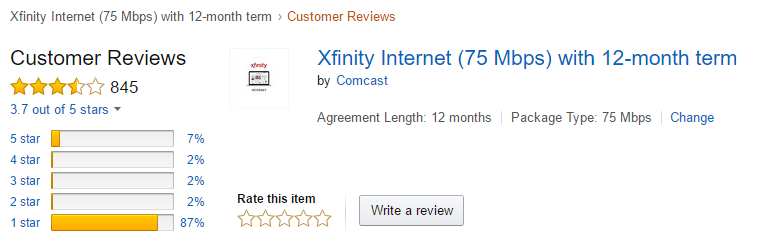
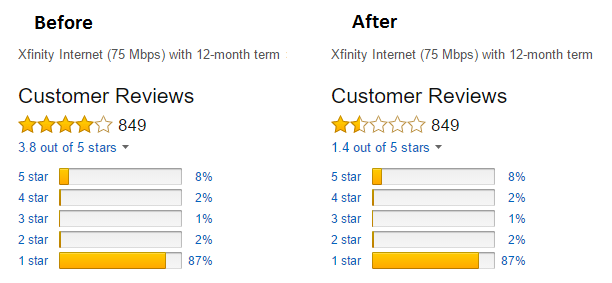
updated readme and screenshot

diff --git a/README.md b/README.md
@@ -8,21 +8,21 @@ This Chrome Extension loads when you open an Amazon product page, calculating an
 
 ## Example
 
-See the reviews for the following Xfinity offering: https://smile.amazon.com/Xfinity-Internet-Mbps-12-month-term/product-reviews/B01B6ZHZGE/
+Consider the following Xfinity offering: https://smile.amazon.com/Xfinity-Internet-Mbps-12-month-term/product-reviews/B01B6ZHZGE/
 
 ![Xfinity Review Screenshot](xfinity-review-screenshot.png)
 
 ````
-5 star: 7%
+5 star: 8%
 4 star: 2%
-3 star: 2%
+3 star: 1%
 2 star: 2%
 1 star: 87%
 ````
 
 Amazon's reported rating: ````3.7/5 stars````
 
-Actual average: ````((5*7)+(4*2)+(3*2)+(2*2)+(1*87))/100 = 140/100 = 1.4/5 stars````
+Actual average: ````((5*8)+(4*2)+(3*1)+(2*2)+(1*87))/100 = 142/100 = 1.4/5 stars````
 
 Amazon reports a rating 2.3 stars higher than actually reflected by reviews.
 
